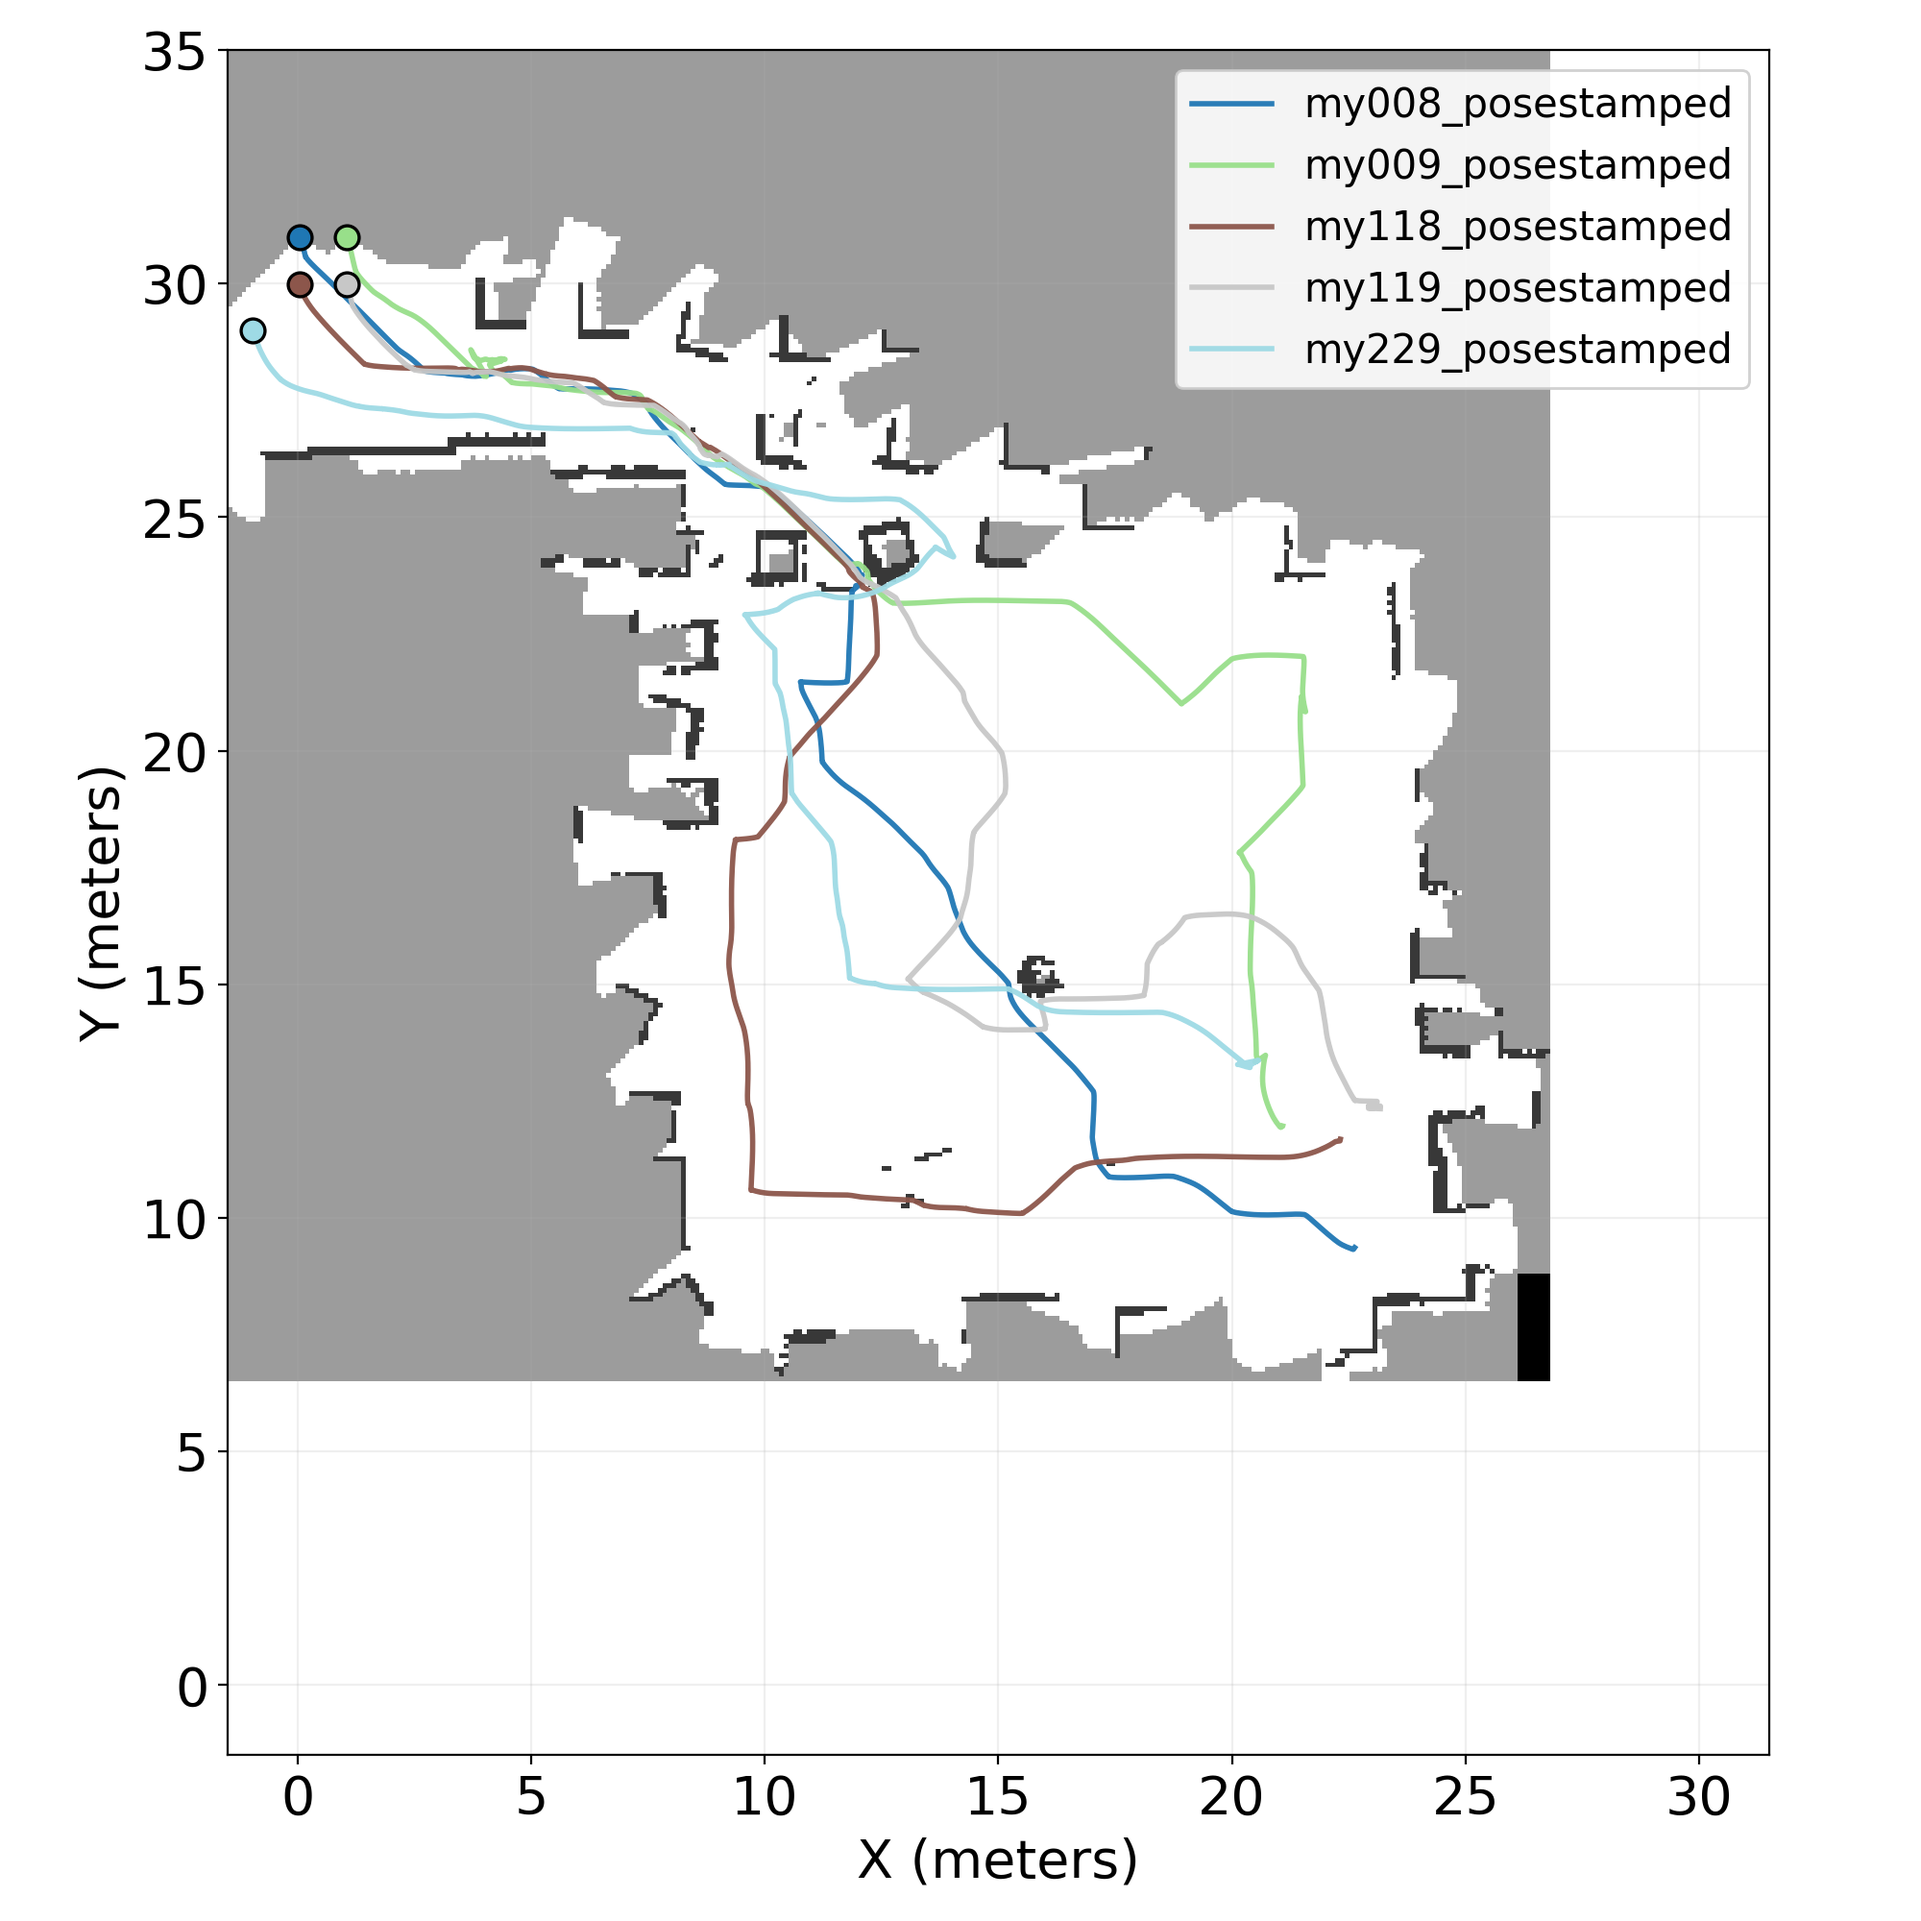
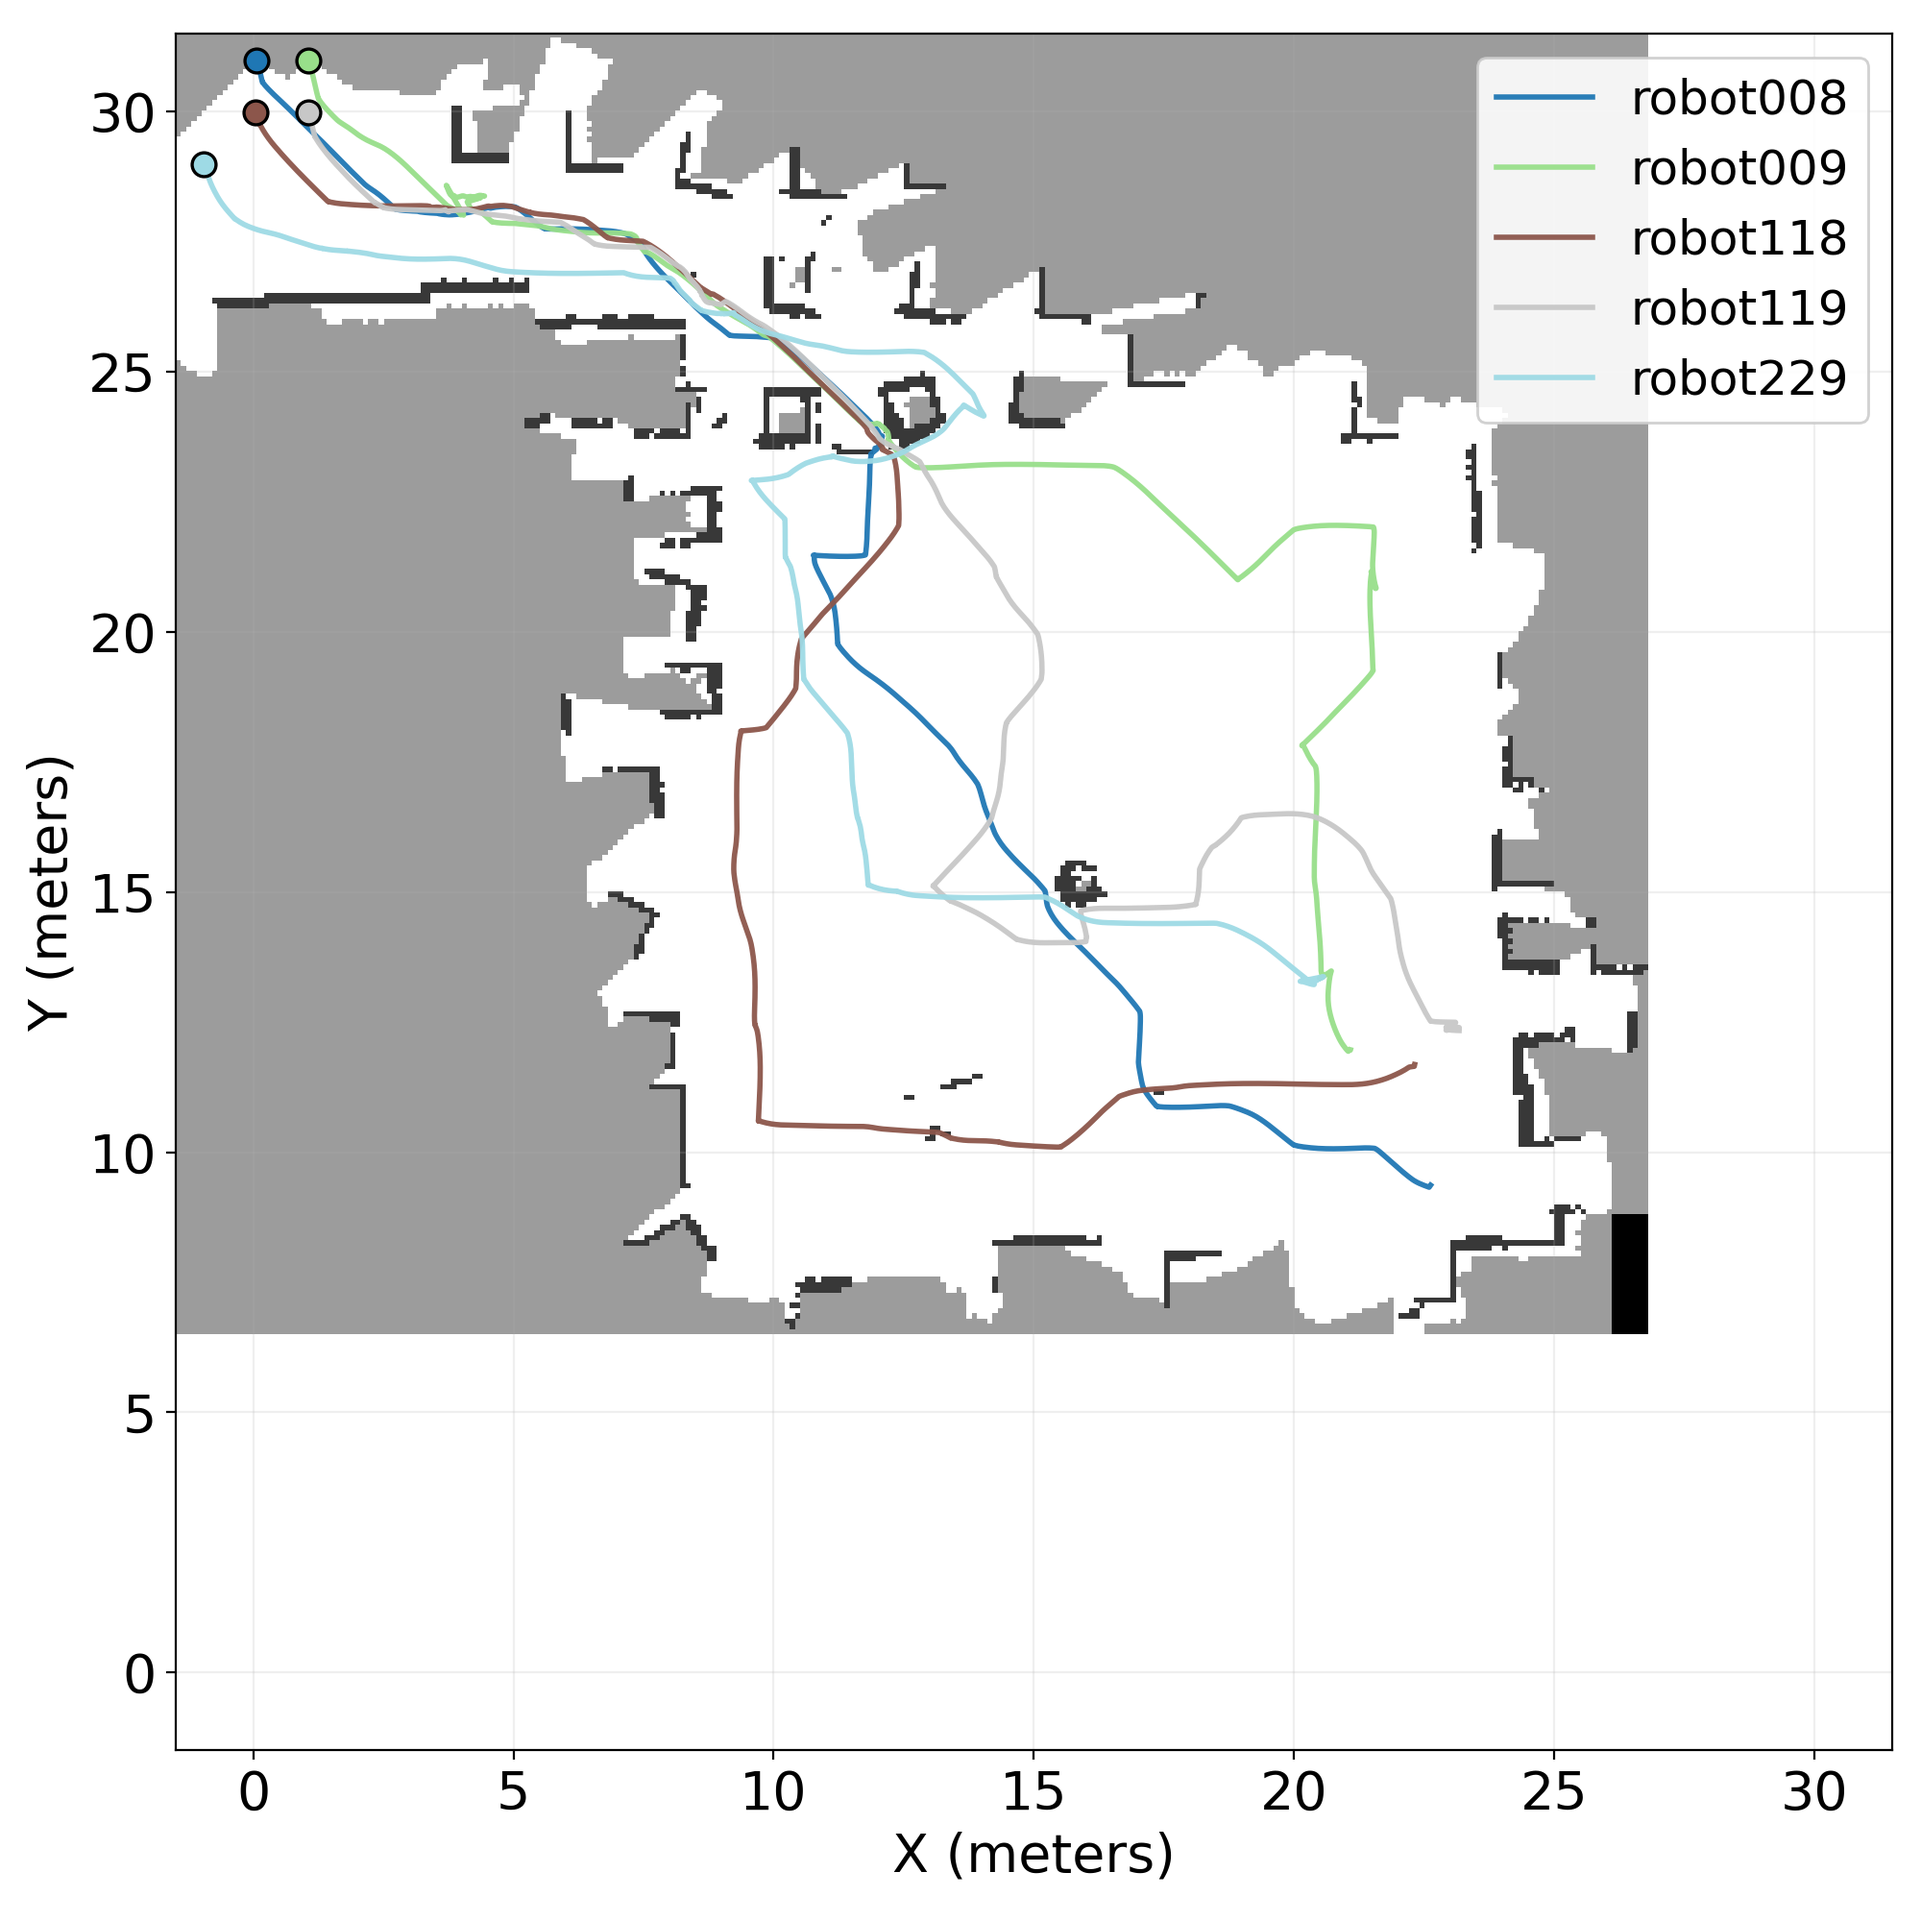
map1 수정

diff --git a/src/pose_map_logger/pose_map_logger/trajectory_plot_with_map.py b/src/pose_map_logger/pose_map_logger/trajectory_plot_with_map.py
@@ -51,7 +51,7 @@ def plot_robot_trajectories_with_map(folder_path, map_csv_path, save_filename='r
     # 로봇 파일 수집
     robot_files = sorted([
         fname for fname in os.listdir(folder_path)
-        if fname.endswith('.csv') and 'posestamped' in fname
+        if fname.endswith('.csv') and 'robot' in fname
     ])
 
     # 로봇 수만큼 고유 색상 지정
@@ -89,10 +89,10 @@ def plot_robot_trajectories_with_map(folder_path, map_csv_path, save_filename='r
     plt.xticks(fontsize=20)
     plt.yticks(fontsize=20)
     plt.xlim(-1.5, 31.5) # -1.5, 35 -1.5, 26
-    plt.ylim(-1.5, 35) # -1.5, 35  7, 31.5
+    plt.ylim(-1.5, 31.5) # -1.5, 35  7, 31.5
     plt.xlabel('X (meters)', fontsize=20)
     plt.ylabel('Y (meters)', fontsize=20)
-    plt.legend(loc='upper right', fontsize=15, framealpha=0.9)
+    plt.legend(loc='upper right', fontsize=18, framealpha=0.9)
     plt.grid(True, alpha=0.2)
     plt.tight_layout()
     plt.savefig(save_filename, dpi=200)
